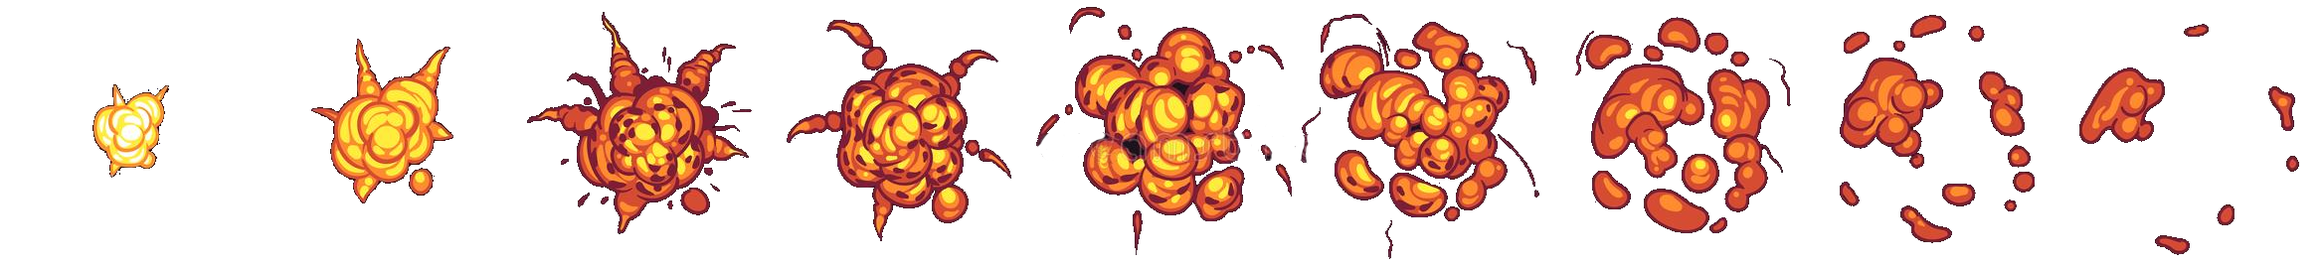
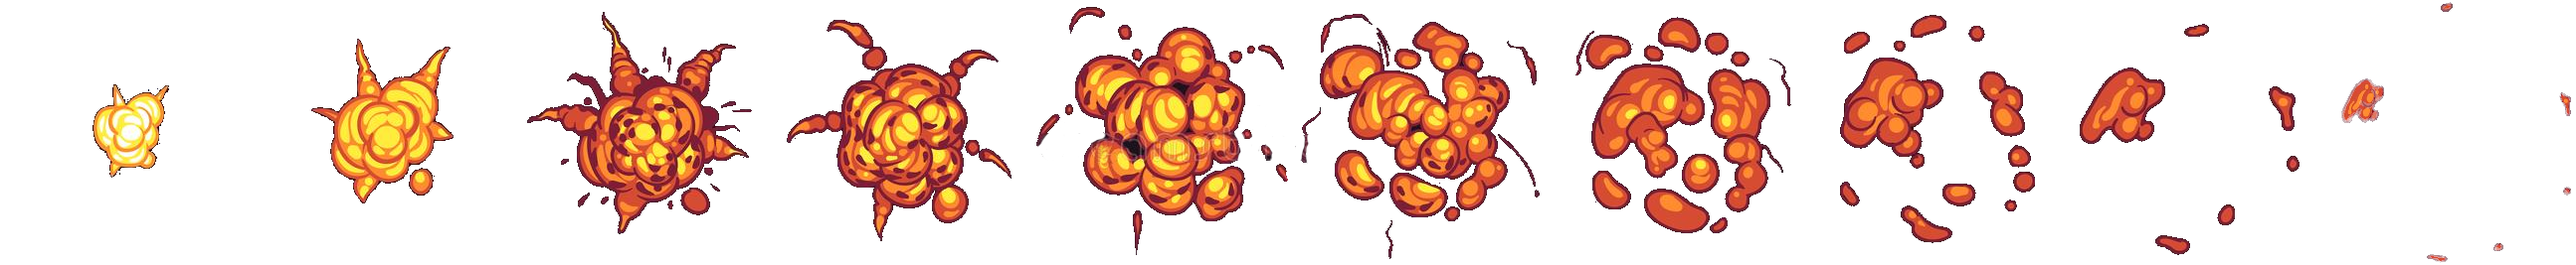
Meteor. updated explosion animation

diff --git a/src/gameApp/magic/Meteor.ts b/src/gameApp/magic/Meteor.ts
@@ -99,7 +99,7 @@ export class Meteor extends Magic{
 		this.dy = this.speed * Math.sin(angle * Math.PI / 180);
 		this.dx = this.speed * Math.cos(angle * Math.PI / 180);
 		this.isEndLogic = false;
-		this.explosionAnimation = new Animation(9, 9 * 75, Meteor.imageAnimationExplosion);
+		this.explosionAnimation = new Animation(10, 10 * 75, Meteor.imageAnimationExplosion);
 		this.explosionAnimation.leftTimeMs = 0;
 
 		this.lastTimeCreatingSmoke = 0;
@@ -333,7 +333,9 @@ export class Meteor extends Magic{
 
 		if(this.explosionAnimation.leftTimeMs > 0){
 			let size = this.width * Meteor.damageEndSizeKof * 2;
+			Draw.ctx.globalAlpha = this.explosionAnimation.leftTimeMs / this.explosionAnimation.durationMs * 4;
 			this.explosionAnimation.draw(drawsDiffMs, isGameOver, this.intersectionWithEarch.x - size / 2, this.intersectionWithEarch.y - size / 2, size, size);
+			Draw.ctx.globalAlpha = 1;
 		}
 	}
 

diff --git a/src/reactApp/pages/Test/TestPage.tsx b/src/reactApp/pages/Test/TestPage.tsx
@@ -3298,13 +3298,13 @@ class TestPage extends React.Component {
                 App.Store.dispatch(MenuStore.actionCreators.startGame());
                 Game.startNew();
                 WavesState.delayEndLeftTimeMs = WavesState.delayStartLeftTimeMs = 0;
-                Waves.all = [ //монстры на волнах
+                /*Waves.all = [ //монстры на волнах
                     [ //1-я волна
                         new WaveData(Boar.name, 1, 1, 6)
                     ],
                     [ //2-я волна
                         new WaveData(Boar.name, 1, 1, 0)
-                    ]];
+                    ]];*/
                 WavesState.isWaveStarted = false;
                 Waves.waveCurrent = 0;
                 Gamer.coins = 775;
